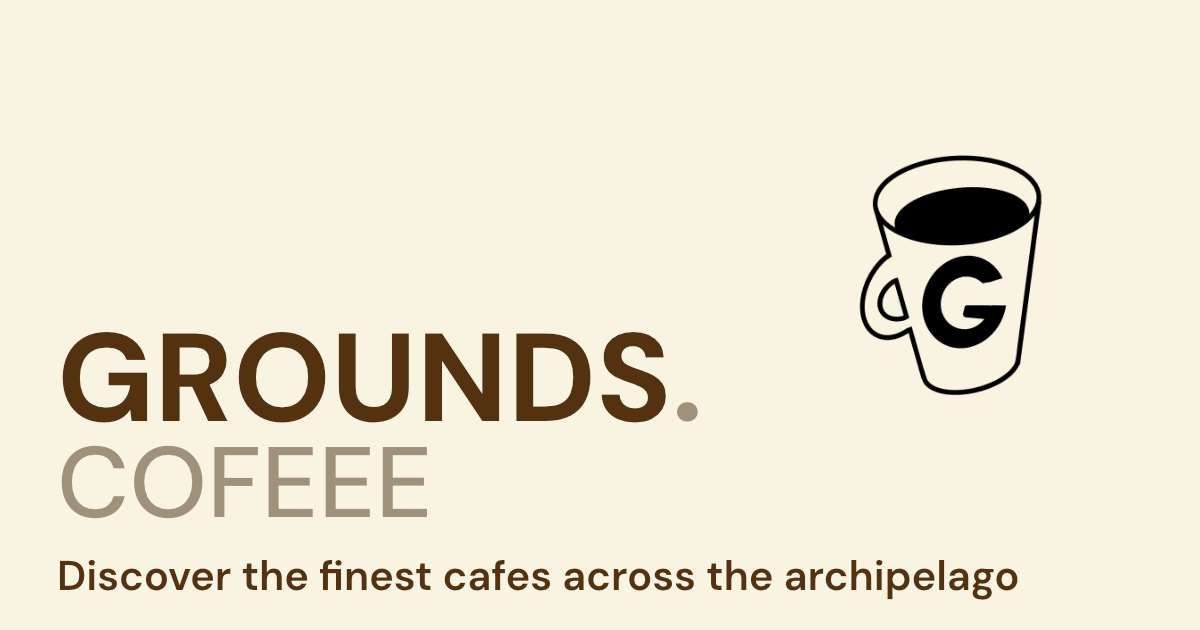
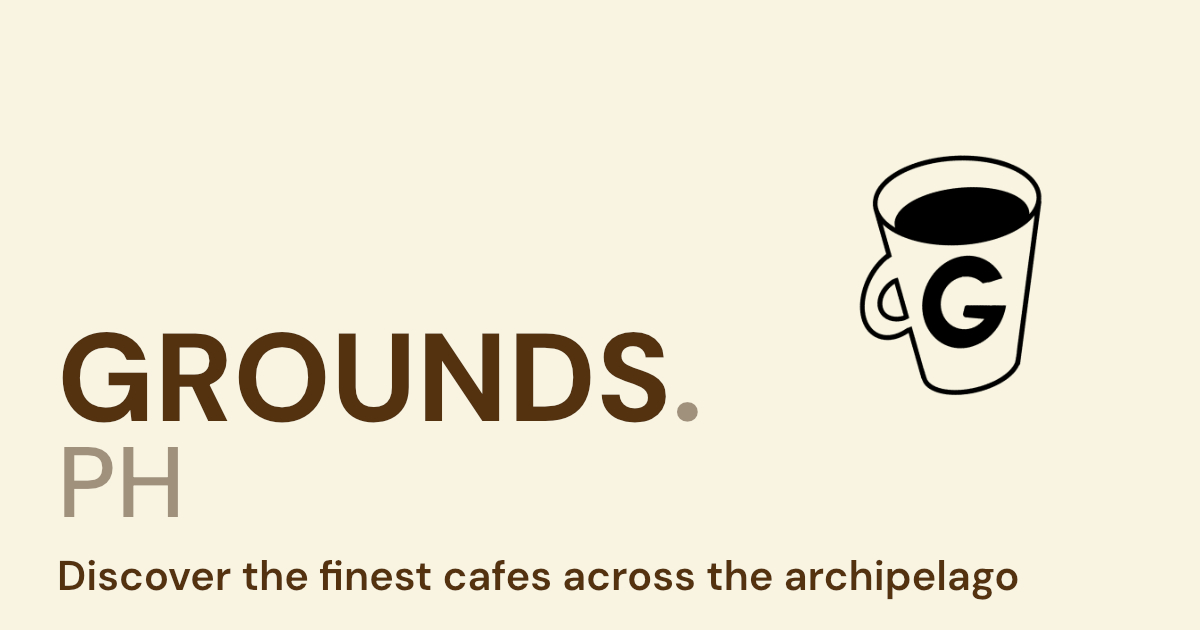
feat: ✨ Update hero text from 'COFFEE' to 'PH' and refresh the Open Graph image.

Changed region(s): [[0.0308, 0.6937, 0.37, 0.8444]]

diff --git a/components/LandingHero.tsx b/components/LandingHero.tsx
@@ -94,7 +94,7 @@ export default function LandingHero({
                                 <span className='text-text/60'>.</span>
                             </span>
                             <span className='font-medium text-text/60 text-4xl md:text-5xl lg:text-6xl'>
-                                COFFEE
+                                PH
                             </span>
                         </motion.h1>
                         <motion.span className='text-lg md:text-2xl lg:text-3xl font-semibold'>
